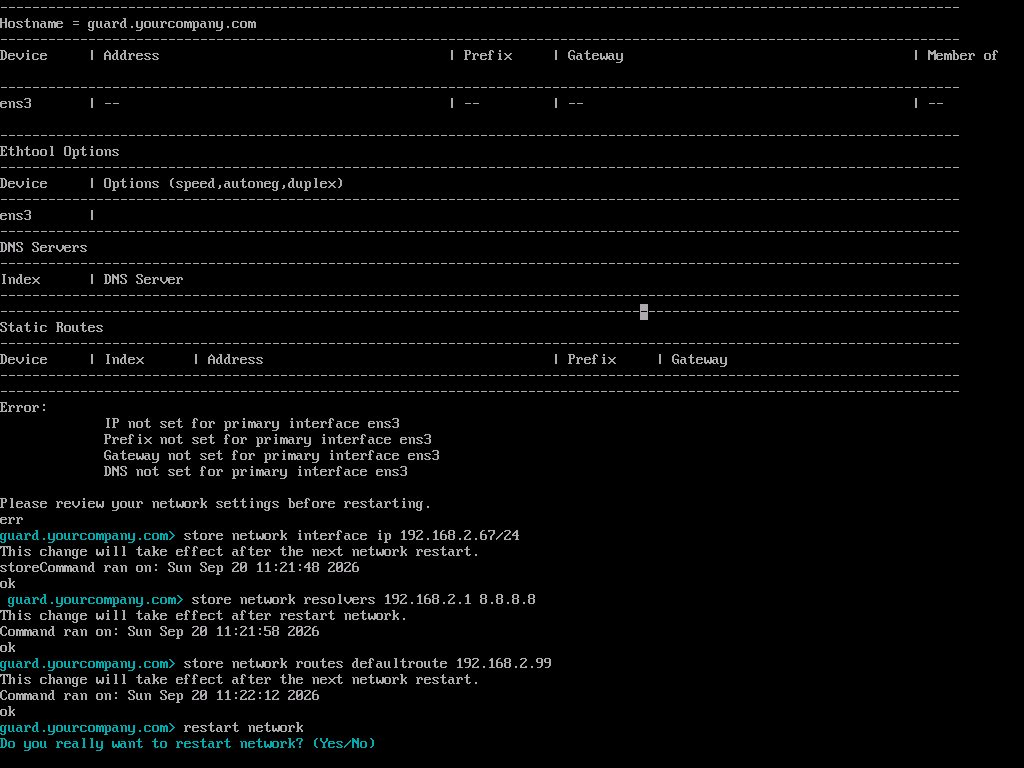
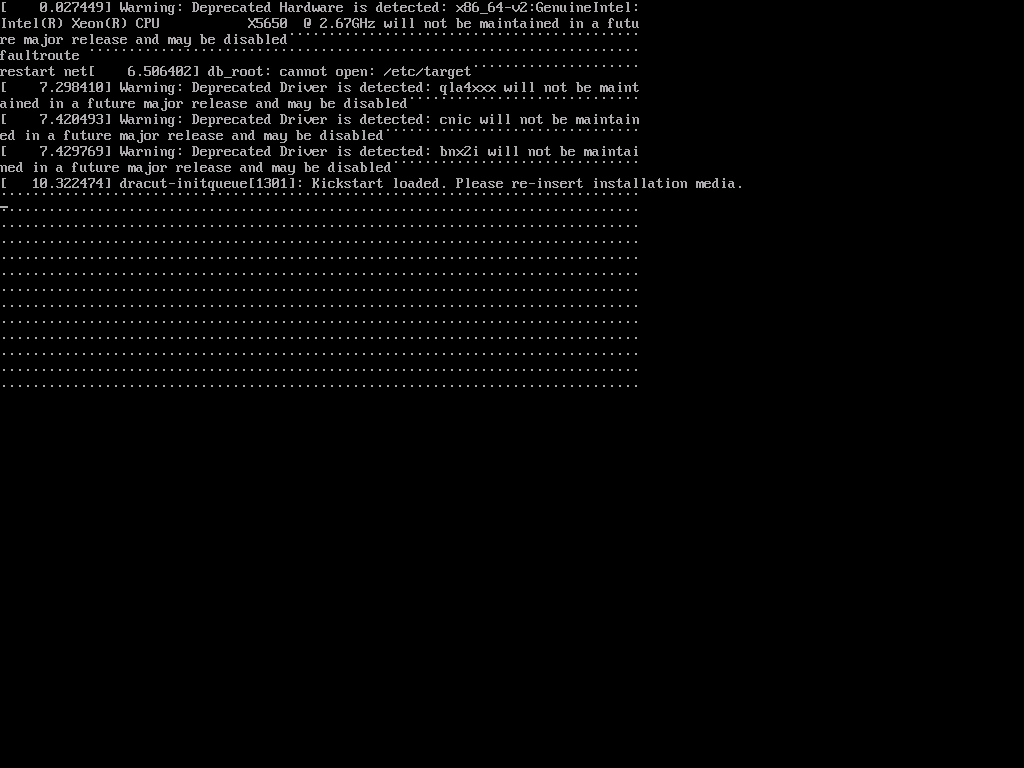
21-09-2026-1

diff --git a/README.md b/README.md
@@ -4,7 +4,7 @@ This repository is a conservative foundation for deploying Guardium VMs on an ex
 
 ## Verified host
 
-The inspected host is Rocky Linux 9.8 with libvirt/QEMU available. The discovered installation image is `/home/dev/Security_Guardium_Product_Image_V12_2_ISO_with_12.2.2.iso`. The existing OVS bridge is `br0` (configured in `config/lab.yml`).
+The inspected host is Rocky Linux 9.8 with libvirt/QEMU available. The discovered installation image is `/home/dev/Security_Guardium_Product_Image_V12_2_ISO_with_12.2.2.iso`. The existing OVS bridge is `ovs-br0` (configured in `config/lab.yml`).
 
 Both the Collector and Aggregator VMs have been provisioned and successfully completed the Guardium 12.2 OS installation (RHEL 9.6 base, `guardium-base*` packages). Key fixes required to get a working install, documented in [repo memory](../../.), include CPU `host-passthrough`, separating the OS disk (SATA) from the installer ISO (IDE), and booting `hd` before `cdrom`.
 
@@ -30,14 +30,29 @@ Edit [config/lab.yml](config/lab.yml). The ISO path and OVS bridge are intention
 guardium:
   iso_path: /home/dev/Security_Guardium_Product_Image_V12_2_ISO_with_12.2.2.iso
 network:
-  ovs_bridge: existing-bridge-name
+  ovs_bridge: ovs-br0
+```
+
+The host must also allow passwordless sudo for libvirt automation; otherwise validation fails with a `qemu:///system` authorization error:
+
+```bash
+sudo tee /etc/sudoers.d/guardium-deploy >/dev/null <<'EOF'
+dev ALL=(root) NOPASSWD: ALL
+EOF
+sudo chmod 440 /etc/sudoers.d/guardium-deploy
+sudo visudo -cf /etc/sudoers.d/guardium-deploy
 ```
 
 Use [config/customer-template.yml](config/customer-template.yml) for customer-specific values. It contains no credentials. Credentials are expected through a secret store, Ansible Vault, or environment variables.
 
 ## Commands
 
+### Deploy
+
 ```bash
+cd /home/dev/guard
+source .venv/bin/activate
+
 ./scripts/guardium-deploy status
 ./scripts/guardium-deploy validate
 ./scripts/guardium-deploy collector
@@ -46,8 +61,33 @@ Use [config/customer-template.yml](config/customer-template.yml) for customer-sp
 ./scripts/guardium-deploy converge collector   # waits for SSH, then configures/validates
 ./scripts/guardium-deploy converge aggregator
 ./scripts/guardium-deploy resume
-./scripts/guardium-deploy destroy
 ```
+
+### One-shot deployment helper
+
+```bash
+cd /home/dev/guard
+./scripts/guardium-everything.sh full
+./scripts/guardium-everything.sh collector
+./scripts/guardium-everything.sh aggregator
+```
+
+### Destroy / tear down the environment
+
+To destroy the full lab environment, use the explicit approval guard and type `DESTROY` when prompted:
+
+```bash
+cd /home/dev/guard
+GUARDIUM_ALLOW_DESTROY=yes ./scripts/guardium-deploy destroy
+```
+
+This is the full-environment teardown command. It removes the Terraform-managed VM infrastructure and requires the interactive `DESTROY` confirmation.
+
+If you want to destroy only the currently managed state without the prompt, this is not allowed by design; the script intentionally blocks it unless `GUARDIUM_ALLOW_DESTROY=yes` is set.
+
+### Destroy a specific role
+
+The repo does not have a separate per-role destroy command; the supported destruction path is the full Terraform destroy guarded by `GUARDIUM_ALLOW_DESTROY=yes`.
 
 `collector`/`aggregator`/`full` create the VM (if not already created) and automatically select the correct Guardium installer menu entry: entry 1 (`std`) for Collector, entry 3 (`agg`) for Aggregator. Boot selection only runs once per VM (tracked in `state/deployment.yml`).
 
